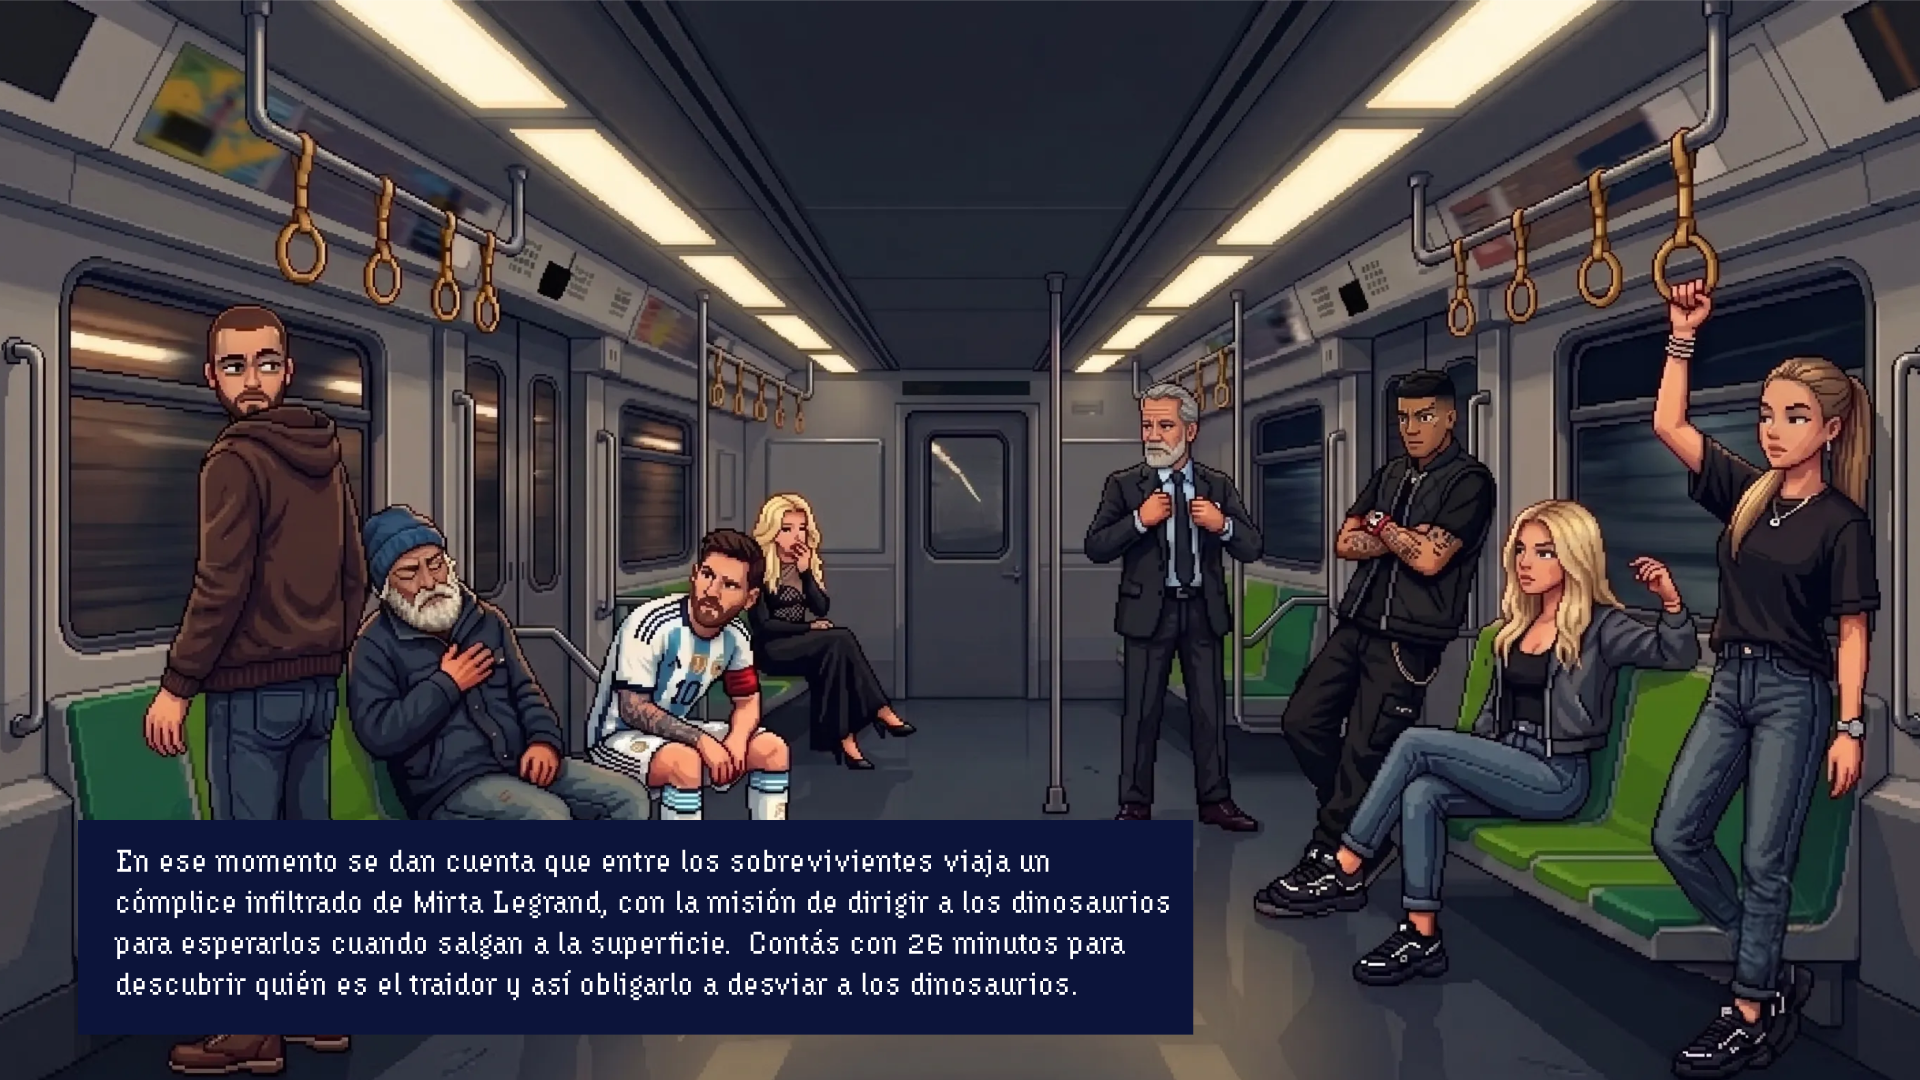
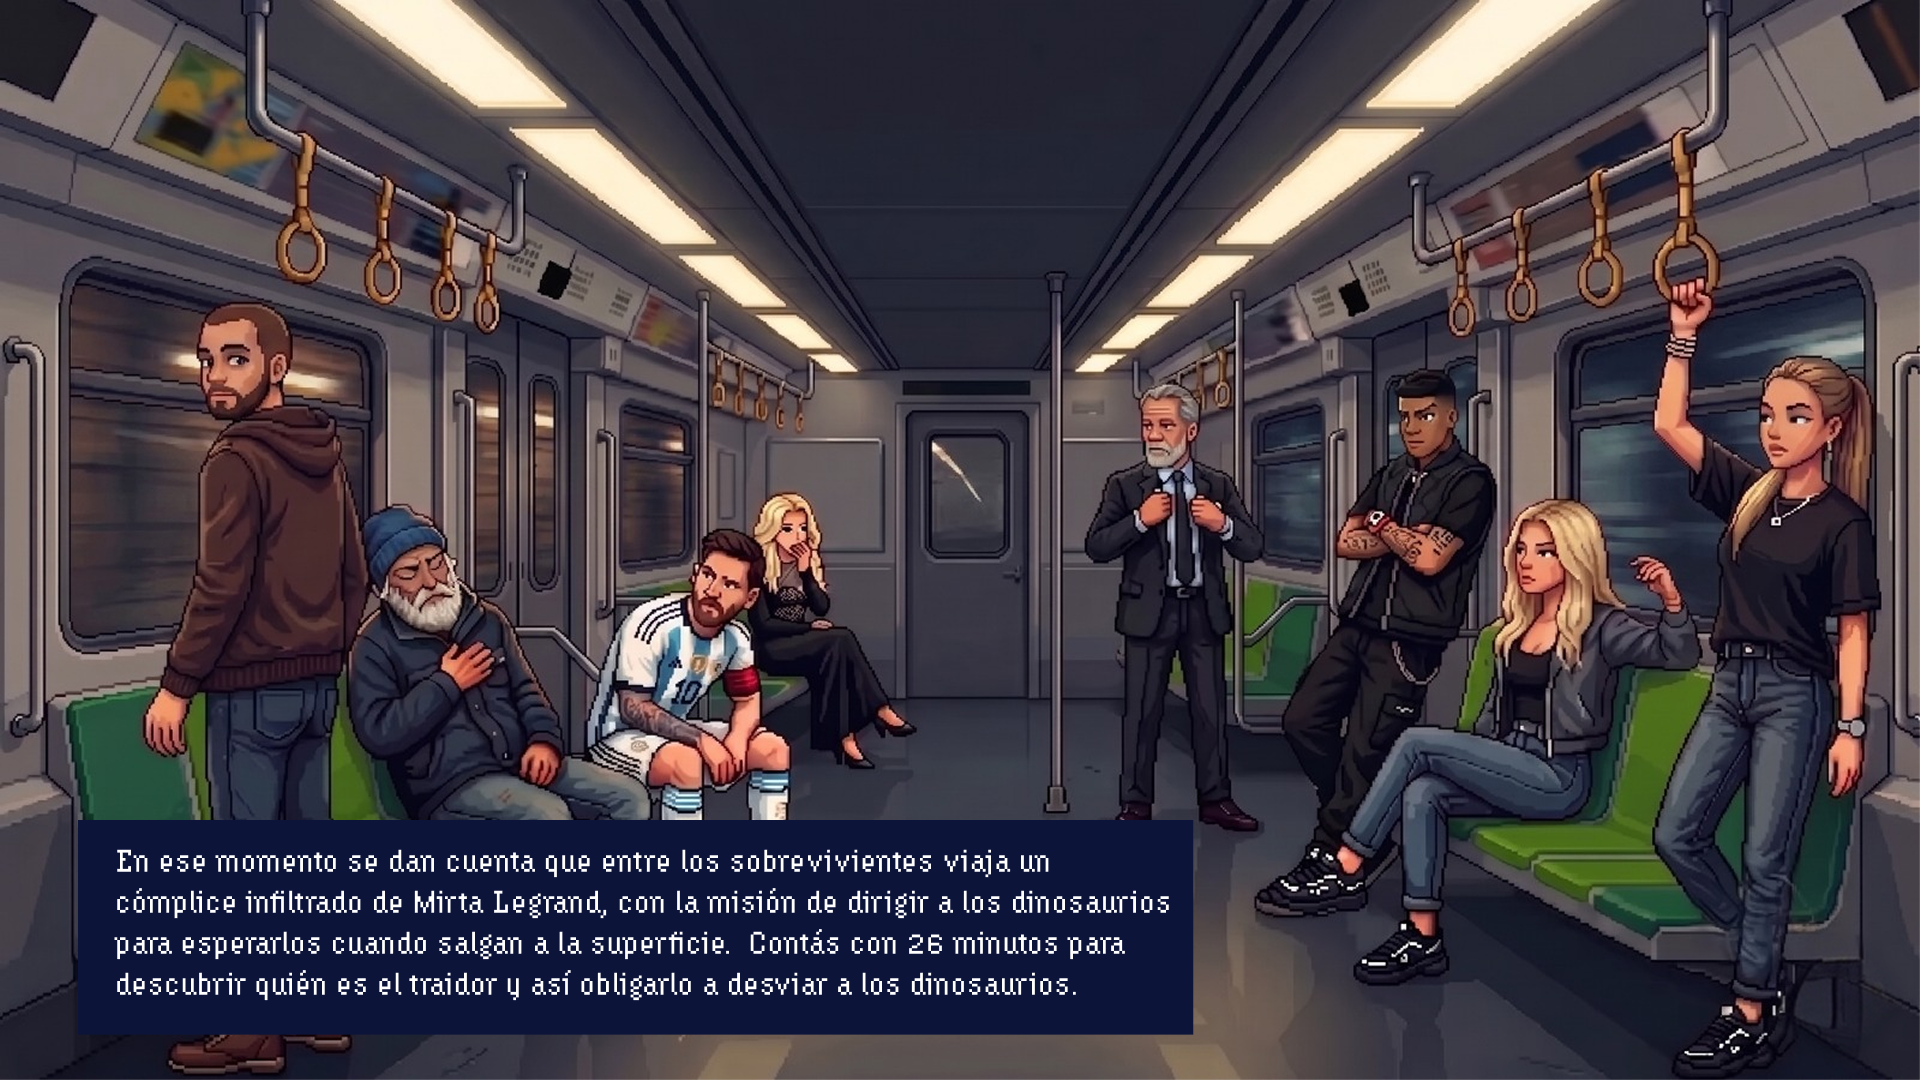
Ajustes Escenas Imagenes Inicio

diff --git a/Assets/Scripts/clicks.cs b/Assets/Scripts/clicks.cs
@@ -29,9 +29,14 @@ public class clicks : MonoBehaviour
  
     private void ConectarSonidoATodosLosBotones(Scene escena, LoadSceneMode modo)
     {
-        Button[] todosLosBotones = FindObjectsByType<Button>(FindObjectsSortMode.None);
+        // FindObjectsInactive.Include: tambien encuentra botones dentro de objetos
+        // desactivados (ej. PanelDialogo apagado al inicio), que de otro modo se saltean.
+        Button[] todosLosBotones = FindObjectsByType<Button>(FindObjectsInactive.Include, FindObjectsSortMode.None);
         foreach (Button boton in todosLosBotones)
         {
+            // RemoveListener antes de Add evita que el sonido se duplique si el
+            // boton ya estaba conectado de una carga de escena anterior.
+            boton.onClick.RemoveListener(ReproducirClic);
             boton.onClick.AddListener(ReproducirClic);
         }
     }